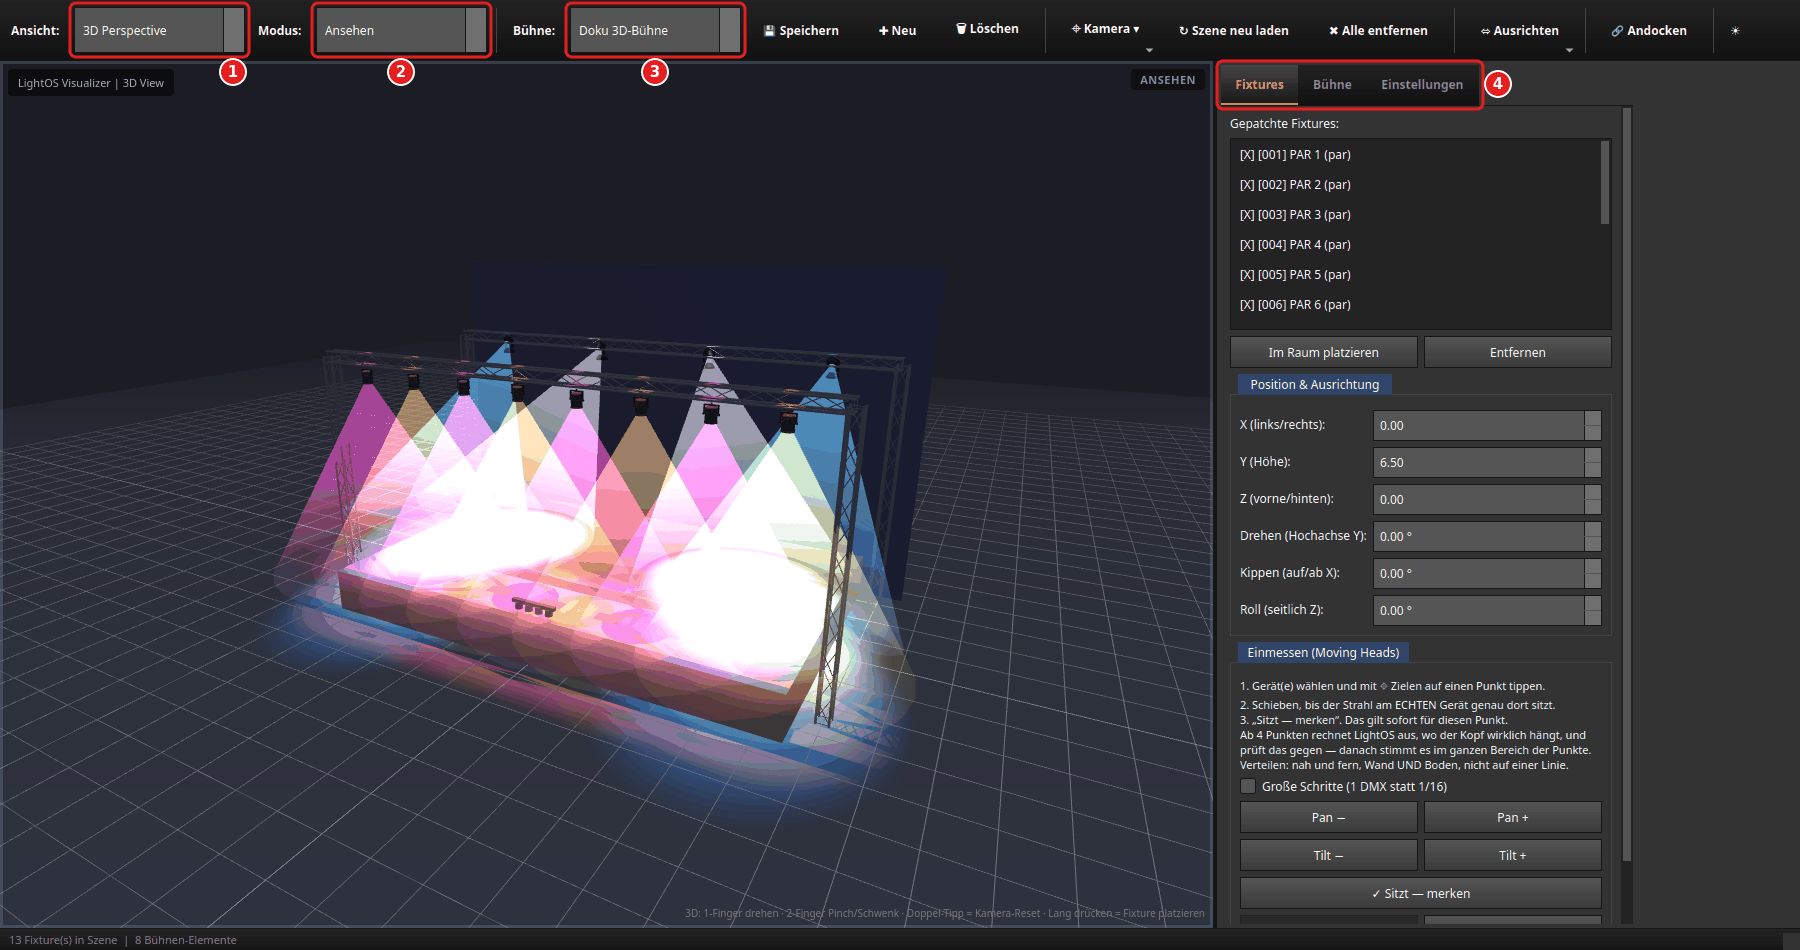
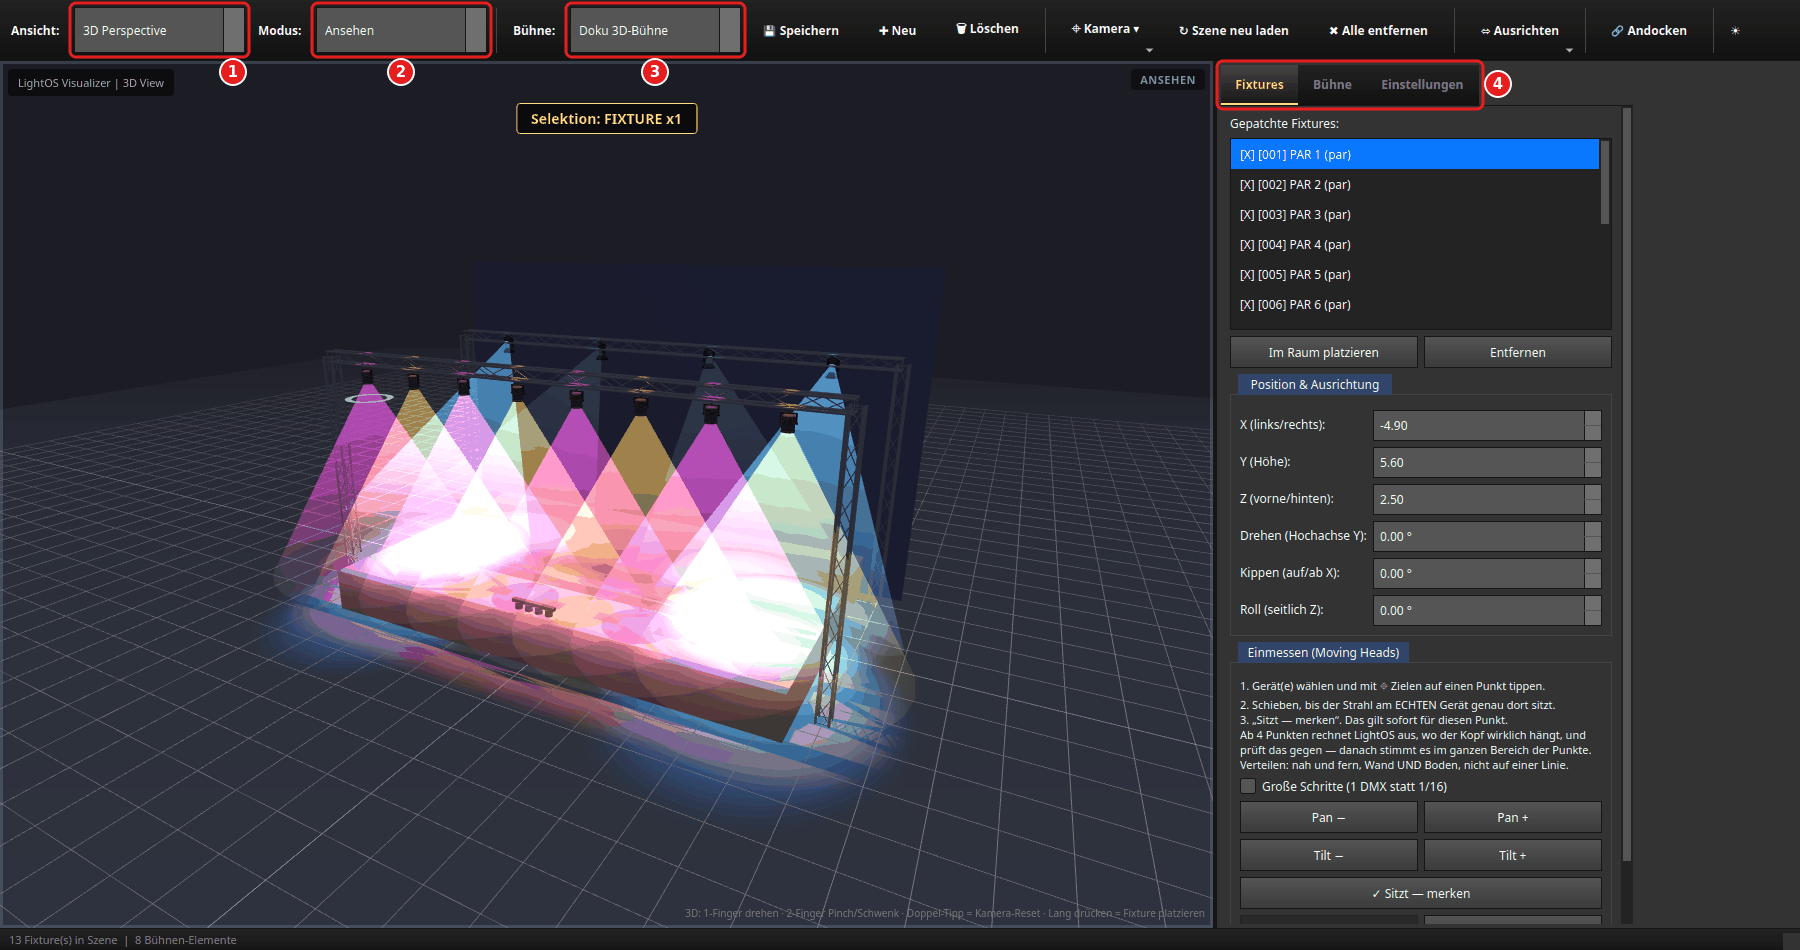
docs: 3D-Bühnen-Bilder nach Prüfung nachgezogen (DOC-59)
- Bauen-Bilder (02, 03) mit Auto-Helligkeit (65 %) statt des Handwerts
  12 %, so wie ein Nutzer mit Standardwerten den Bauen-Modus sieht.
- Überstrahlte Lichtflecken: die weißen Flecken der Übersicht kamen von
  den offen-weißen Spots auf Vollgas (Wash aus/an geprüft) — Spots jetzt
  Farbrad Cyan, Dimmer 50 (im GIF 150); im Bauen-Modus PARs 60 und
  Washes 90, sonst wird die Plattform bei 65 % Grundlicht weiß.
- Bilder 01, 04, 06 wählen PAR 1: „Position & Ausrichtung“ zeigte ohne
  Auswahl den Startwert Y 6.50 bzw. alte Werte von Spot 1.
- Helligkeit der Ansehen-Bilder wird immer als Handwert gemeldet, auch
  wenn der Regler schon auf dem Wert steht.
- Anleitung: Satz zur Auswahl in Bild 01; Schatten-Obergrenze 8 mit
  Hinweis auf sehr schwache Grafikchips (min(8, max(2, maxTextures-6))).

diff --git a/tools/anleitungsbilder/szenen_3d_buehne.py b/tools/anleitungsbilder/szenen_3d_buehne.py
@@ -73,9 +73,16 @@ def _positionen(ui) -> dict:
     return pos
 
 
+_SPOT_CYAN = 88          # Farbrad des Generic-Spots: 80–95 = Cyan
+
+
 def _farben(ui, pars_rgb=((255, 0, 150), (255, 90, 0)), wash_rgb=(0, 90, 255),
-            spot_rad=0, intens=110):
-    """``pars_rgb``: zwei Farben, abwechselnd auf PAR 1, 2, 3 …"""
+            spot_rad=_SPOT_CYAN, intens=110, spot_intens=50, wash_intens=255):
+    """``pars_rgb``: zwei Farben, abwechselnd auf PAR 1, 2, 3 …
+
+    Die Spots nicht offen-weiss auf Vollgas: ihre beiden Flecken auf der
+    Plattform waren dann reines Weiss, Farbe und Boden darunter nicht zu
+    erkennen (bei 100 noch immer). Deshalb Farbrad Cyan und ``spot_intens`` 50."""
     from anleitungsbilder.szenen_ausgabe_einrichten import frame_wie_ausgabe
     info = ui.info
     ui.wert(info["pars"], "intensity", intens)
@@ -85,11 +92,11 @@ def _farben(ui, pars_rgb=((255, 0, 150), (255, 90, 0)), wash_rgb=(0, 90, 255),
         ui.wert([fid], "color_g", g)
         ui.wert([fid], "color_b", b)
     r, g, b = wash_rgb
-    ui.wert(info["washes"], "intensity", 255)
+    ui.wert(info["washes"], "intensity", wash_intens)
     ui.wert(info["washes"], "color_r", r)
     ui.wert(info["washes"], "color_g", g)
     ui.wert(info["washes"], "color_b", b)
-    ui.wert(info["spots"], "intensity", 255)
+    ui.wert(info["spots"], "intensity", spot_intens)
     ui.wert(info["spots"], "color_wheel", spot_rad)
     frame_wie_ausgabe(ui)
 
@@ -282,6 +289,9 @@ def _einstellung(ui, *, opacity=None, helligkeit=None, kegel=None, nebel=None,
         viz._sld_opacity.setValue(opacity)
     if helligkeit is not None:
         viz._sld_brightness.setValue(helligkeit)
+        # Auch bei unveraendertem Reglerwert als Handwert melden: sonst bliebe
+        # die Auto-Helligkeit eines vorigen Bauen-Bilds stehen.
+        viz._on_brightness_changed(helligkeit)
     for chk, wert in ((viz._chk_cones, kegel), (viz._chk_fog, nebel),
                       (viz._chk_floor, boden)):
         if wert is not None:
@@ -306,6 +316,17 @@ def _geraet_waehlen(ui, fid):
     raise SzenenFehler(f"Gerät {fid} fehlt in der Visualizer-Liste")
 
 
+def _auto_helligkeit(ui):
+    """Wie „Auto-Werte anwenden“: Handwert verwerfen, damit die Szene im
+    Bauen-Modus so hell wird wie bei einem Nutzer mit Standardwerten (65 %).
+    Danach ist die 3D-Auswahl leer (``setEditMode``) — erst dann waehlen."""
+    _viz(ui)._on_auto_brightness_apply()
+    ui.pump(0.6)
+    # Bei 65 % Grundlicht ueberstrahlten PARs (110) und Washes (255) die
+    # Plattform zu weissen Flaechen; zum Bauen reicht weniger.
+    _farben(ui, intens=60, wash_intens=90)
+
+
 def _element_waehlen(ui, name):
     from PySide6.QtCore import Qt
     viz = _viz(ui)
@@ -328,7 +349,10 @@ def _mh_mitte(ui):
 
 
 def _alles_grundstellung(ui):
-    """Ausgangslage aller Bilder: Ansehen, Fixtures-Reiter, 3D, Totale."""
+    """Ausgangslage aller Bilder: Ansehen, Fixtures-Reiter, 3D, Totale.
+
+    Helligkeit 12 % von Hand (Strahlen gut sichtbar); die Bauen-Bilder holen
+    danach die Auto-Helligkeit zurueck (:func:`_auto_helligkeit`)."""
     _viz_auf(ui)
     _ansicht(ui, "3D")
     _modus(ui, False)
@@ -344,8 +368,17 @@ def _alles_grundstellung(ui):
 
 # ── 1: Uebersicht ───────────────────────────────────────────────────────────
 
+def _par1_waehlen(ui):
+    """PAR 1 waehlen: „Position & Ausrichtung“ zeigt sonst Werte ohne Auswahl
+    (Startwert Y 6.50 bzw. die Werte des zuletzt gewaehlten Geraets, VIZ-76).
+    Danach warten, bis der Identify-Puls der Auswahl (1,5 s) verklungen ist."""
+    _geraet_waehlen(ui, ui.info["pars"][0])
+    ui.pump(1.6)
+
+
 def _v01(ui):
     _alles_grundstellung(ui)
+    _par1_waehlen(ui)
     kamera(ui, _KAM_TOTALE)
 
 
@@ -369,6 +402,7 @@ _KAM_BAUEN = {"name": "Doku", "mode": "3D", "theta": 0.45, "phi": 1.12,
 def _v02(ui):
     _alles_grundstellung(ui)
     _modus(ui, True)
+    _auto_helligkeit(ui)
     _reiter(ui, "Bühne")
     _element_waehlen(ui, "Front-Traverse")
     kamera(ui, _KAM_BAUEN)
@@ -396,6 +430,7 @@ def _b02(ui):
 def _v03(ui):
     _alles_grundstellung(ui)
     _modus(ui, True)
+    _auto_helligkeit(ui)
     _reiter(ui, "Fixtures")
     _viz(ui)._act_dock.setChecked(True)
     _geraet_waehlen(ui, ui.info["spots"][0])
@@ -420,6 +455,7 @@ def _n03(ui):
 
 def _v04(ui):
     _alles_grundstellung(ui)
+    _par1_waehlen(ui)
     kamera(ui, "front")
 
 
@@ -473,6 +509,7 @@ def _b05(ui):
 
 def _v06(ui):
     _alles_grundstellung(ui)
+    _par1_waehlen(ui)
     _ansicht(ui, "2D")
     kamera(ui, "fit")
 
@@ -496,7 +533,10 @@ def _gif_schritt(pan_tilt, pars_rgb, wash_rgb, spot_rad):
     def schritt(ui):
         w1, w2 = ui.info["washes"]
         s1, s2 = ui.info["spots"]
-        _farben(ui, pars_rgb=pars_rgb, wash_rgb=wash_rgb, spot_rad=spot_rad)
+        # Spots heller als in den Standbildern: im GIF sollen sie sichtbar
+        # auffaechern und sich kreuzen.
+        _farben(ui, pars_rgb=pars_rgb, wash_rgb=wash_rgb, spot_rad=spot_rad,
+                spot_intens=150)
         werte = dict(zip((w1, w2, s1, s2), pan_tilt))
         _pan_tilt(ui, werte)
     return schritt
@@ -523,8 +563,8 @@ def _b07(ui):
 _MAG, _AMB, _BLAU, _CYAN = (255, 0, 150), (255, 90, 0), (0, 60, 255), (0, 200, 255)
 _GIF_SCHRITTE = [
     # (Wash1, Wash2, Spot1, Spot2) je (pan, tilt), PAR-Farben, Wash-Farbe, Spot-Rad
-    (((128, 95), (128, 95), (110, 100), (146, 100)), (_MAG, _AMB), (0, 90, 255), 0),
-    (((114, 95), (142, 95), (100, 100), (156, 100)), (_MAG, _AMB), (0, 90, 255), 0),
+    (((128, 95), (128, 95), (110, 100), (146, 100)), (_MAG, _AMB), (0, 90, 255), _SPOT_CYAN),
+    (((114, 95), (142, 95), (100, 100), (156, 100)), (_MAG, _AMB), (0, 90, 255), _SPOT_CYAN),
     (((114, 95), (142, 95), (100, 100), (156, 100)), (_BLAU, _CYAN), (255, 90, 0), 20),
     (((142, 95), (114, 95), (156, 100), (100, 100)), (_BLAU, _CYAN), (255, 90, 0), 20),
 ]

diff --git a/docs/anleitung_3d_visualizer_2026/ANLEITUNG_3D_BUEHNE.md b/docs/anleitung_3d_visualizer_2026/ANLEITUNG_3D_BUEHNE.md
@@ -18,7 +18,9 @@ entstehen aus dem Code am echten Bildschirm
 3. **Bühne** — welche gespeicherte Bühne geladen ist; daneben **Speichern**, **Neu**,
    **Löschen**.
 4. **Reiter** — **Fixtures** (Geräte), **Bühne** (Bühnen-Elemente), **Einstellungen**
-   (Darstellung).
+   (Darstellung). Im Bild ist PAR 1 gewählt (oben in der Ansicht „Selektion: FIXTURE
+   x1“); darunter zeigt **Position & Ausrichtung** seine Werte: Er hängt mit `Y=5.6`
+   an der Front-Traverse.
 
 ## Vorbereitung
 
@@ -205,8 +207,8 @@ die Ansicht stürzte ohne Meldung ab, und kurz davor stand das Bild sekundenlang
 still. Zudem zeichnet jeder schattenwerfende Scheinwerfer die ganze Szene noch
 einmal aus seiner Sicht — mit 16 Schatten war das der größte Einzelposten pro
 Bild und ließ die Ansicht bei großen Rigs ruckeln. Acht Schatten reichen für den
-Raumeindruck; die Grenze gilt auf jedem Rechner gleich, damit die Bühne überall
-gleich aussieht. Neu berechnet werden die Schatten nur, wenn sich etwas bewegt
+Raumeindruck. Die Obergrenze von 8 gilt überall gleich; nur auf sehr schwachen
+Grafikchips (weniger als 14 Textur-Einheiten) werfen noch weniger Geräte Schatten. Neu berechnet werden die Schatten nur, wenn sich etwas bewegt
 (Pan/Tilt, verschobene Geräte oder Bühnenteile) — Kamerafahrten und reine Farb- oder
 Dimmerwechsel kosten keinen Schattendurchlauf.
 
